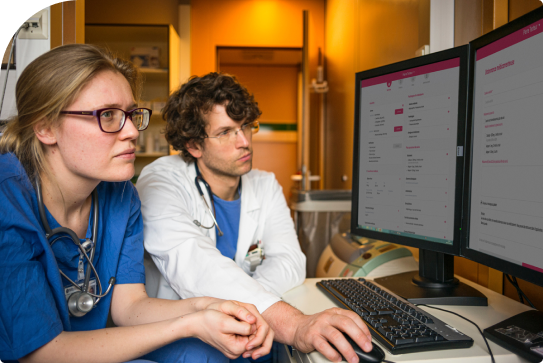
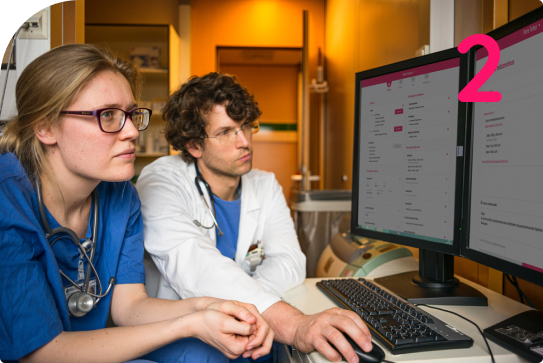
updated image to include number in them

Changed region(s): [[0.825, 0.0909, 0.9429, 0.303]]

diff --git a/src/sass/_custom.scss b/src/sass/_custom.scss
@@ -28,6 +28,10 @@ button {
     box-shadow: 0px 0px 30px 0px rgba(0, 0, 0, 0.15);
 }
 
+.shadow--light {
+    box-shadow: 0px 0px 30px rgba(0, 0, 0, 0.15);
+}
+
 .corners--rounded {
     border-radius: 4px;
 }
